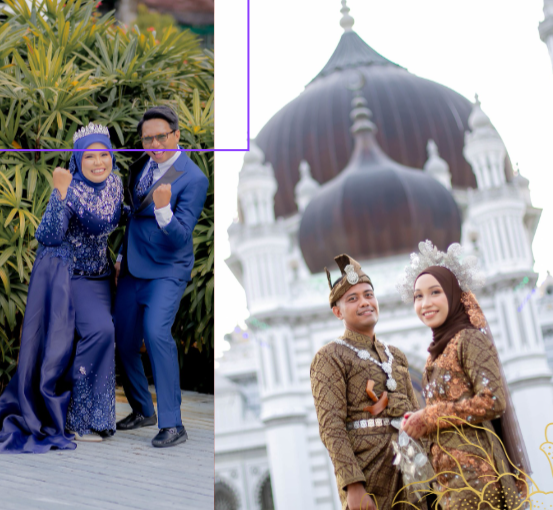
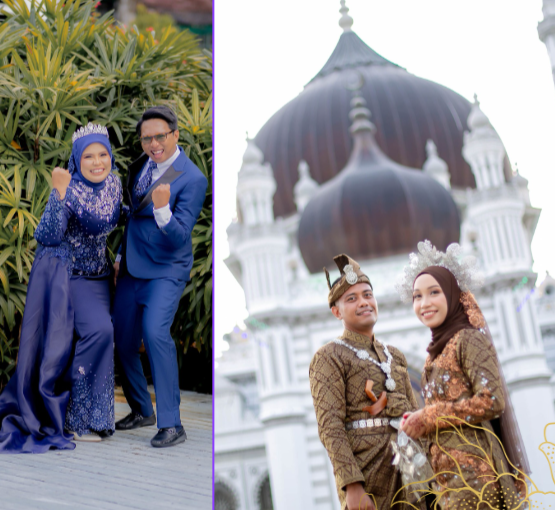
Ganti gambar artwork (versi kemas) + cache-bust v2

diff --git a/index.html b/index.html
@@ -119,7 +119,7 @@
             </div>
             <!-- Gambar -->
             <div>
-                <img src="artwork.png" alt="Pasangan pengantin - Pixyophoto" loading="lazy" class="w-full h-auto rounded-2xl shadow-2xl">
+                <img src="artwork.png?v=2" alt="Pasangan pengantin - Pixyophoto" loading="lazy" class="w-full h-auto rounded-2xl shadow-2xl">
             </div>
         </div>
     </section>